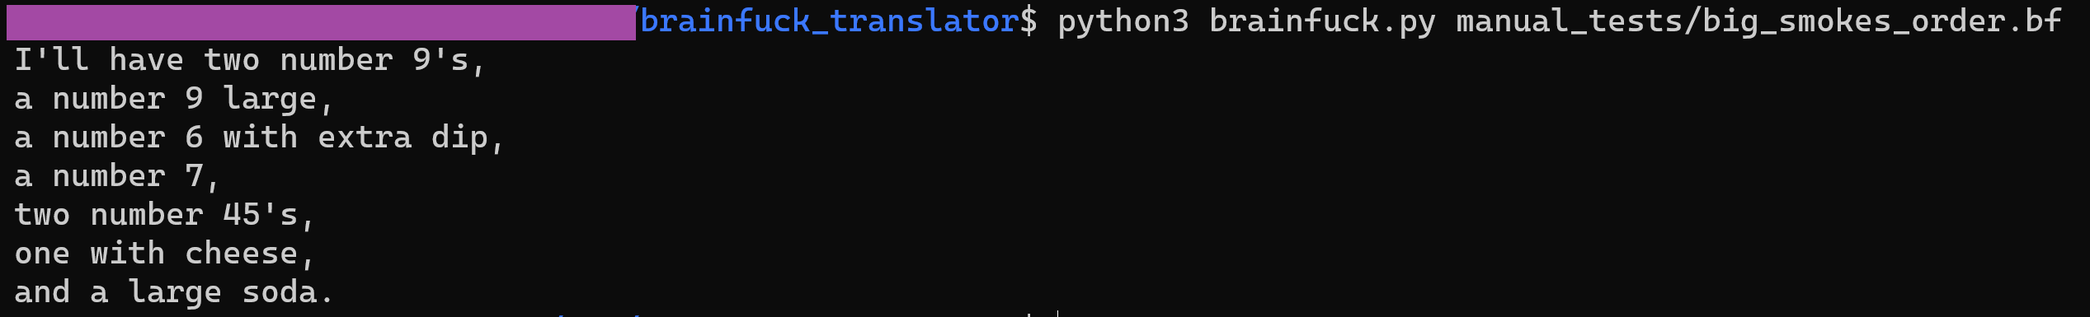
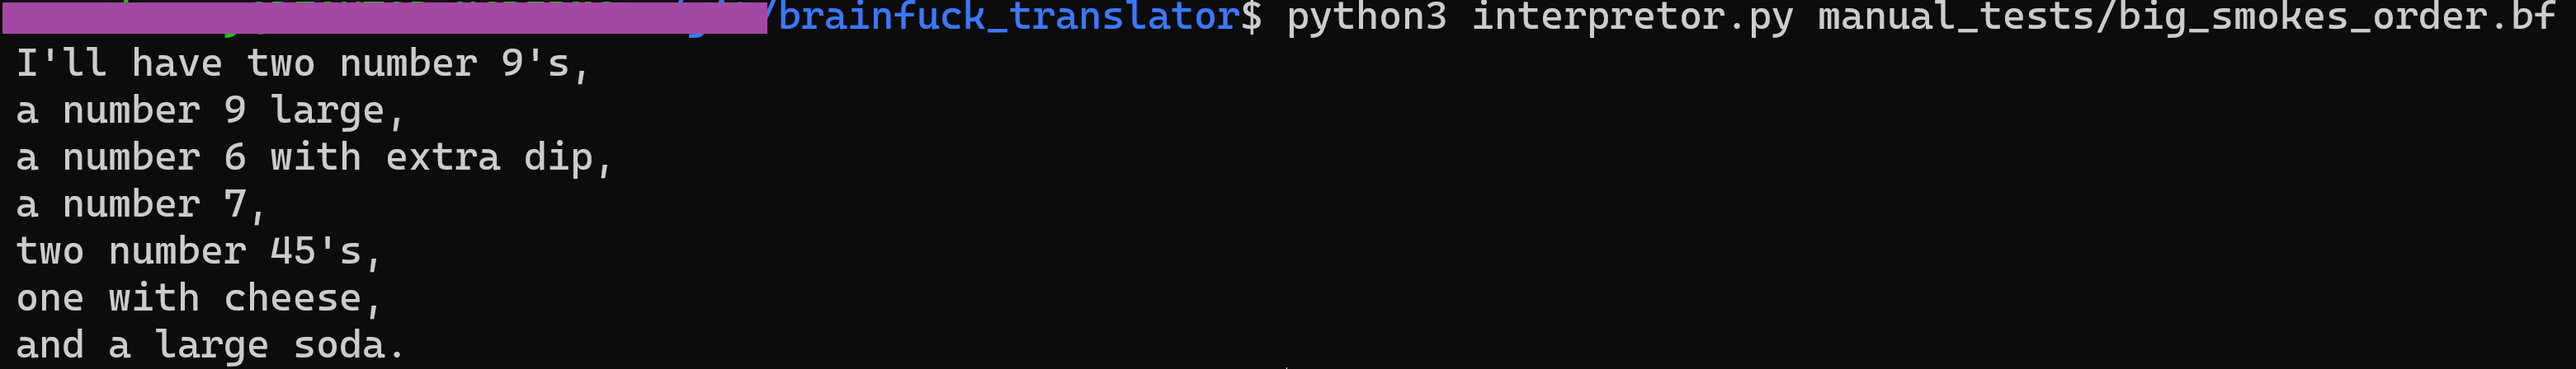
fixed readme typos

diff --git a/README.md b/README.md
@@ -6,7 +6,7 @@ Translates .txt files into brainfuck code
 ## How to run program
 In terminal, run `python3 translator.py {input filename.txt} {output filename.bf}` to translate a txt file of your choice into brainfuck.
 
-To use the interpreter to run brainfuck code, run `python3 interpret.py {filename.bf}`.
+To use the interpreter to run brainfuck code, run `python3 interpretor.py {filename.bf}`.
 
 ### Example
 This txt file below can be translated into Brainfuck code.
@@ -20,7 +20,7 @@ The resulting Brainfuck code from the command can be seen here.
 ![bf](manual_tests/screenshots/c3.png)
 
 
-This can then be translated using `python3 brainfuck.py manual_tests/big_smokes_order.bf` seen below.
+This can then be translated using `python3 interpretor.py manual_tests/big_smokes_order.bf` seen below.
 ![output](manual_tests/screenshots/c2.png)
 
 ## Sources
